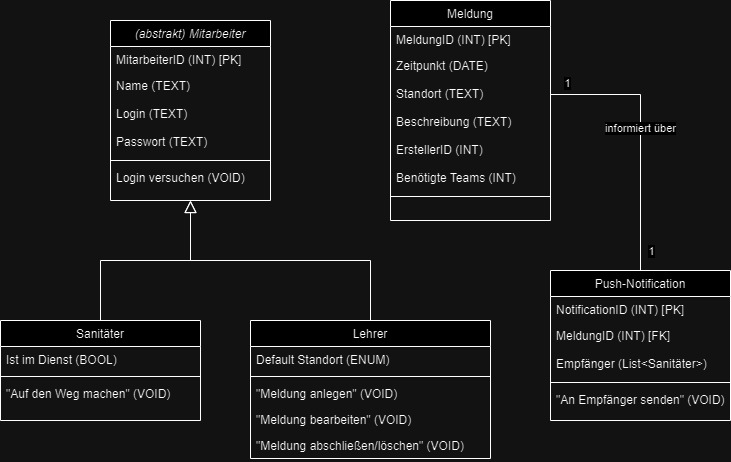
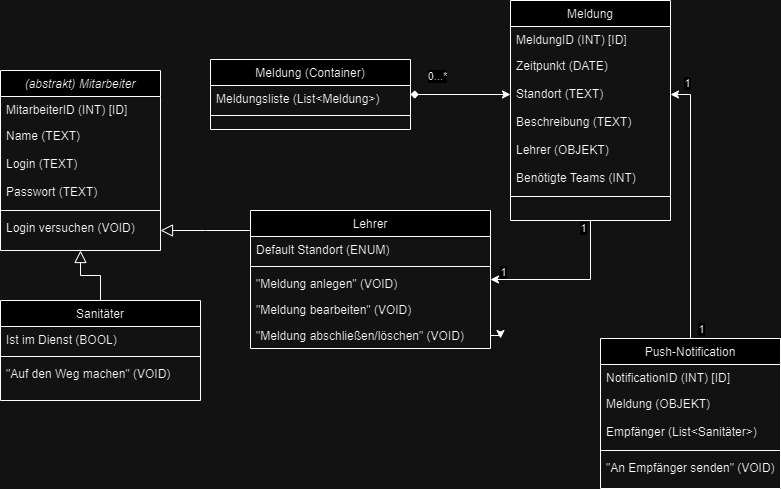
Bild für Klassendiagramm angepasst

diff --git a/README.md b/README.md
@@ -81,4 +81,4 @@ Beim Erstellen einer neuen Meldung wird automatisch eine Push-Notification mit d
 
 # Klassendiagramm
 
-![Alt text](images/Webapp-Klassendiagramm.jpg)
+![Klassendiagramm](images/Webapp-Klassendiagramm.jpg)
